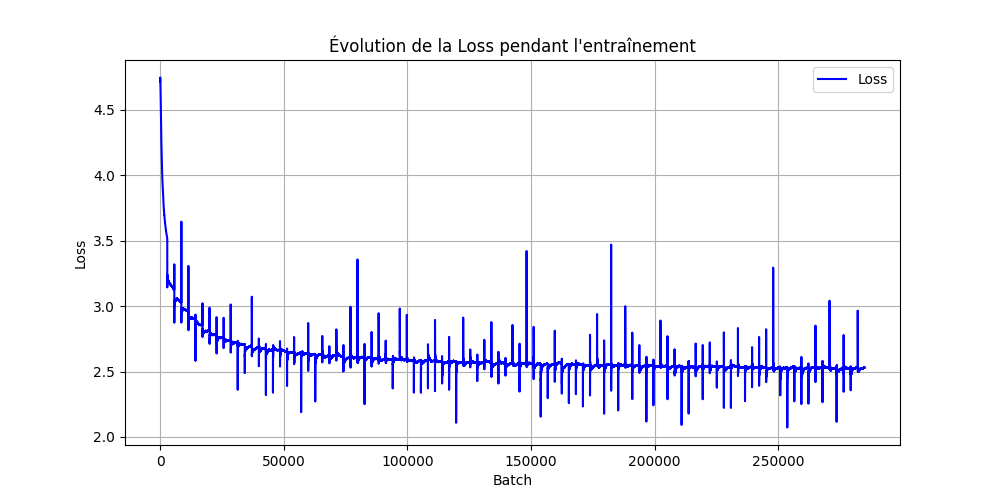
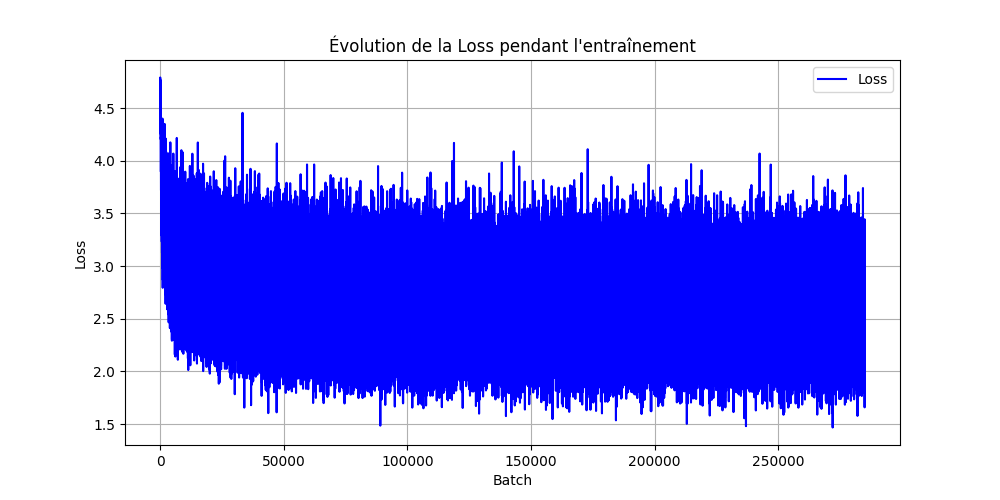
tensorflow -> pytorch

diff --git a/src/classifier/Classifier.py b/src/classifier/Classifier.py
@@ -1,95 +1,135 @@
-import numpy
+import numpy as np
 import seaborn
-from keras import Input
+import torch
+import torch.nn as nn
+import torch.optim as optim
+from torch.utils.data import TensorDataset, DataLoader
 from matplotlib import pyplot as plt
-from pandas.core.interchange.dataframe_protocol import DataFrame
 from sklearn.metrics import accuracy_score, confusion_matrix
 from sklearn.model_selection import train_test_split
 from sklearn.preprocessing import StandardScaler, LabelEncoder
-import tensorflow
-from tensorflow.keras.models import Sequential
-from tensorflow.keras.layers import Dense
-from tensorflow.keras.optimizers import Adam
+
 from src.classifier.utils.LossGraph import LossGraph
 from src.classifier.utils.ProgressBar import ProgressBar
 
 
+class MLP(nn.Module):
+    def __init__(self, input_dim, n_classes):
+        super().__init__()
+        self.__fc1 = nn.Linear(input_dim, 32)
+        self.__fc2 = nn.Linear(32, 32)
+        self.__fc3 = nn.Linear(32, n_classes)
+
+    def forward(self, x):
+        x = nn.functional.relu(self.__fc1(x))
+        x = nn.functional.relu(self.__fc2(x))
+        output = self.__fc3(x)
+        return output
+
+
 class Classifier:
-    def __init__(self, X: DataFrame, y: DataFrame, epochs = 5, batch_size = 32, split_ratio = 0.2, random_state = 42) -> None:
+    def __init__(self, X, y, epochs=5, batch_size=32):
         self.__epochs = epochs
-        self.__batch_size = batch_size
 
         # Normalisation
-        self.__scaler = StandardScaler()
-        X = self.__scaler.fit_transform(X)
+        scaler = StandardScaler()
+        X = scaler.fit_transform(X)
 
         # Split
-        self.__X_train, self.__X_test, self.__y_train, self.__y_test = train_test_split(
-            X, y, test_size=split_ratio, random_state=random_state
+        X_train, X_test, y_train, y_test = train_test_split(
+            X, y, test_size=0.2, random_state=42
         )
 
-        # Encodage des labels texte en entiers
+        # Encode labels
         self.__label_encoder = LabelEncoder()
-        self.__y_train = self.__label_encoder.fit_transform(self.__y_train)
-        self.__y_test = self.__label_encoder.transform(self.__y_test)
+        y_train = self.__label_encoder.fit_transform(y_train)
+        y_test = self.__label_encoder.transform(y_test)
 
-        self.__genres = numpy.unique(self.__y_train)
-        self.__n_classes = len(self.__genres)
+        self.__n_classes = len(np.unique(y_train))
 
-        # Conversion en one-hot
-        self.__y_train_oh = tensorflow.keras.utils.to_categorical(self.__y_train, num_classes=self.__n_classes)
-        self.__y_test_oh = tensorflow.keras.utils.to_categorical(self.__y_test, num_classes=self.__n_classes)
+        # Convert to tensors
+        self.__X_train = torch.tensor(X_train, dtype=torch.float32)
+        self.__X_test = torch.tensor(X_test, dtype=torch.float32)
+        self.__y_train = torch.tensor(y_train, dtype=torch.long)
+        self.__y_test = torch.tensor(y_test, dtype=torch.long)
 
-        # Modèle Keras équivalent à MLPClassifier
-        self.__model = Sequential([
-            Input(shape=(self.__X_train.shape[1],)),
-            Dense(64, activation='relu'),
-            Dense(32, activation='relu'),
-            Dense(self.__n_classes, activation='softmax')
-        ])
-        self.__model.compile(optimizer=Adam(), loss='categorical_crossentropy', metrics=['accuracy'])
+        # Dataloader
+        train_dataset = TensorDataset(self.__X_train, self.__y_train)
+        self.__train_loader = DataLoader(train_dataset, batch_size=batch_size, shuffle=True)
 
-    def train(self) -> None:
-        callbacks = [
-            ProgressBar(batch_size=self.__batch_size, dataset_size=len(self.__X_train), epochs=self.__epochs),
-            LossGraph(epochs=self.__epochs, show_graph=False)
-        ]
+        # Modèle PyTorch
+        self.__model = MLP(self.__X_train.shape[1], self.__n_classes)
 
-        self.__model.fit(
-            self.__X_train,
-            self.__y_train_oh,
-            epochs=self.__epochs,
-            batch_size=self.__batch_size,
-            verbose=0,
-            callbacks=callbacks
+        # Optim & loss
+        self.__criterion = nn.CrossEntropyLoss()
+        self.__optimizer = optim.Adam(self.__model.parameters(), lr=0.001)
+
+        self.__progress = ProgressBar(epochs, batch_size, len(self.__X_train))
+        self.__loss_graph = LossGraph(epochs, refresh_rate=50, show_graph=False)
+
+    def train(self):
+        self.__model.train()
+        batch_index = 0
+
+        for epoch in range(self.__epochs):
+            for X_batch, y_batch in self.__train_loader:
+                self.__optimizer.zero_grad()
+                outputs = self.__model(X_batch)
+                loss = self.__criterion(outputs, y_batch)
+                loss.backward()
+                self.__optimizer.step()
+
+                # ----------- CALLBACKS ----------
+                self.__progress.on_batch_end()
+
+                self.__loss_graph.on_batch_end(
+                    batch=batch_index,
+                    logs={"loss": loss.item()}
+                )
+                batch_index += 1
+                # --------------------------------
+
+        # fin d'entraînement
+        self.__progress.on_train_end()
+        self.__loss_graph.on_train_end()
+
+    def test(self):
+        self.__model.eval()
+        with torch.no_grad():
+            outputs = self.__model(self.__X_test)
+            y_pred = torch.argmax(outputs, dim=1).numpy()
+
+        accuracy = accuracy_score(self.__y_test.numpy(), y_pred)
+
+        print(f"\n🎯 Précision globale: {accuracy:.2%}")
+
+        # plot confusion matrix
+        self._plot_confusion_matrix(self.__y_test.numpy(), y_pred)
+
+    def _plot_confusion_matrix(self, y_true, y_pred):
+        cm = confusion_matrix(y_true, y_pred)
+
+        plt.figure(figsize=(16, 14))
+        seaborn.heatmap(
+            cm,
+            annot=False,
+            fmt="d",
+            cmap="Blues",
+            xticklabels=self.__label_encoder.classes_,
+            yticklabels=self.__label_encoder.classes_,
+            cbar_kws={"label": "Nombre de prédictions"},
+            linewidths=0.5,
+            linecolor="gray",
+            square=True,
         )
 
-    def test(self) -> None:
-        y_pred_probs = self.__model.predict(self.__X_test)
-        y_pred = numpy.argmax(y_pred_probs, axis=1)
-        accuracy = accuracy_score(self.__y_test, y_pred)
-        print(f"\n🎯 Précision globale: {accuracy:.2%}")
-        f = open(f"src/classifier/results/{self.__epochs}_epochs_accuracy_{accuracy:.2%}", "w")
-        self.__plot_confusion_matrix(self.__y_test, y_pred)
-
-    def __plot_confusion_matrix(self, y_true: DataFrame, y_pred: DataFrame) -> None:
-        cm = confusion_matrix(y_true, y_pred)
-        plt.figure(figsize=(16, 14))
-        seaborn.heatmap(cm,
-                    annot=False,
-                    fmt='d',
-                    cmap='Blues',
-                    xticklabels=self.__label_encoder.classes_,
-                    yticklabels=self.__label_encoder.classes_,
-                    cbar_kws={'label': 'Nombre de prédictions'},
-                    linewidths=0.5,
-                    linecolor='gray',
-                    square=True)
-        plt.title('Matrice de Confusion', fontsize=16, fontweight='bold', pad=20)
-        plt.ylabel('Vrai Genre', fontsize=12, fontweight='bold')
-        plt.xlabel('Genre Prédit', fontsize=12, fontweight='bold')
+        plt.title("Matrice de Confusion", fontsize=16, fontweight='bold', pad=20)
+        plt.ylabel("Vrai Genre", fontsize=12, fontweight='bold')
+        plt.xlabel("Genre Prédit", fontsize=12, fontweight='bold')
         plt.xticks(rotation=45, ha='right', fontsize=9)
         plt.yticks(rotation=0, fontsize=9)
         plt.tight_layout()
-        plt.savefig(f"src/classifier/results/{self.__epochs}_confusion_matrix_epochs.png")
-        print(f"📁 Matrice de confusion sauvegardé dans : src/classifier/results/{self.__epochs}_epochs_confusion_matrix.png")
+
+        plt.savefig(f"src/classifier/results/{self.__epochs}_confusion_matrix.png")
+        print("📁 Matrice de confusion sauvegardée.")
+

diff --git a/src/classifier/utils/LossGraph.py b/src/classifier/utils/LossGraph.py
@@ -1,8 +1,7 @@
 import matplotlib.pyplot as plt
 import numpy as np
-from tensorflow.keras.callbacks import Callback
 
-class LossGraph(Callback):
+class LossGraph:
     def __init__(self, epochs: int, refresh_rate=50, show_graph=False):
         super().__init__()
         self.__losses = []
@@ -29,22 +28,18 @@ class LossGraph(Callback):
         self.__fig.canvas.draw()
 
     def on_batch_end(self, batch, logs=None) -> None:
-        loss = logs.get("loss")
+        loss = logs["loss"]
         self.__losses.append(loss)
 
         if batch % self.__refresh_rate != 0:
             return
 
         if self.__show_graph:
-            # Mise à jour du texte
             self.__text.set_text(f"Loss actuelle : {loss:.4f}")
-
-            # Mise à jour de la courbe
             self.__line.set_data(np.arange(len(self.__losses)), self.__losses)
             self.__ax.relim()
             self.__ax.autoscale_view()
 
-            # Blitting = super rapide
             self.__fig.canvas.restore_region(self.__bg)
             self.__ax.draw_artist(self.__line)
             self.__ax.draw_artist(self.__text)
@@ -52,7 +47,6 @@ class LossGraph(Callback):
             self.__fig.canvas.flush_events()
 
     def on_train_end(self, logs=None):
-        # Sauvegarde propre du graph final
         plt.ioff()
         plt.figure(figsize=(10, 5))
         plt.plot(np.arange(len(self.__losses)), self.__losses, label="Loss", color="blue")

diff --git a/src/classifier/utils/ProgressBar.py b/src/classifier/utils/ProgressBar.py
@@ -1,16 +1,15 @@
 import numpy
-from tensorflow.keras.callbacks import Callback
 from tqdm import tqdm
 
 
-class ProgressBar(Callback):
+class ProgressBar:
     def __init__(self, epochs: int, batch_size: int, dataset_size: int) -> None:
         super().__init__()
         self.__total_batches = epochs * int(numpy.ceil(dataset_size / batch_size))
         self.__pbar = tqdm(total=self.__total_batches, desc="Entraînement", unit="batch")
 
-    def on_batch_end(self, batch, logs=None) -> None:
+    def on_batch_end(self) -> None:
         self.__pbar.update(1)
 
-    def on_train_end(self, logs=None) -> None:
+    def on_train_end(self) -> None:
         self.__pbar.close()

diff --git a/src/main.py b/src/main.py
@@ -2,6 +2,7 @@ import os
 from dotenv import load_dotenv
 
 from src.classifier.Classifier import Classifier
+# from src.classifier.Classifier import Classifier
 from src.classifier.DataLoader import DataLoader
 from src.interface.GUI import GUI
 
@@ -17,7 +18,7 @@ if __name__ == "__main__":
     # app.mainloop()
 
     data_loader = DataLoader("src/classifier/data/dataset.csv")
-    classifier = Classifier(data_loader.X, data_loader.y, epochs=10, batch_size=32)
+    classifier = Classifier(data_loader.X, data_loader.y, epochs=2000, batch_size=32)
     classifier.train()
     classifier.test()
 
